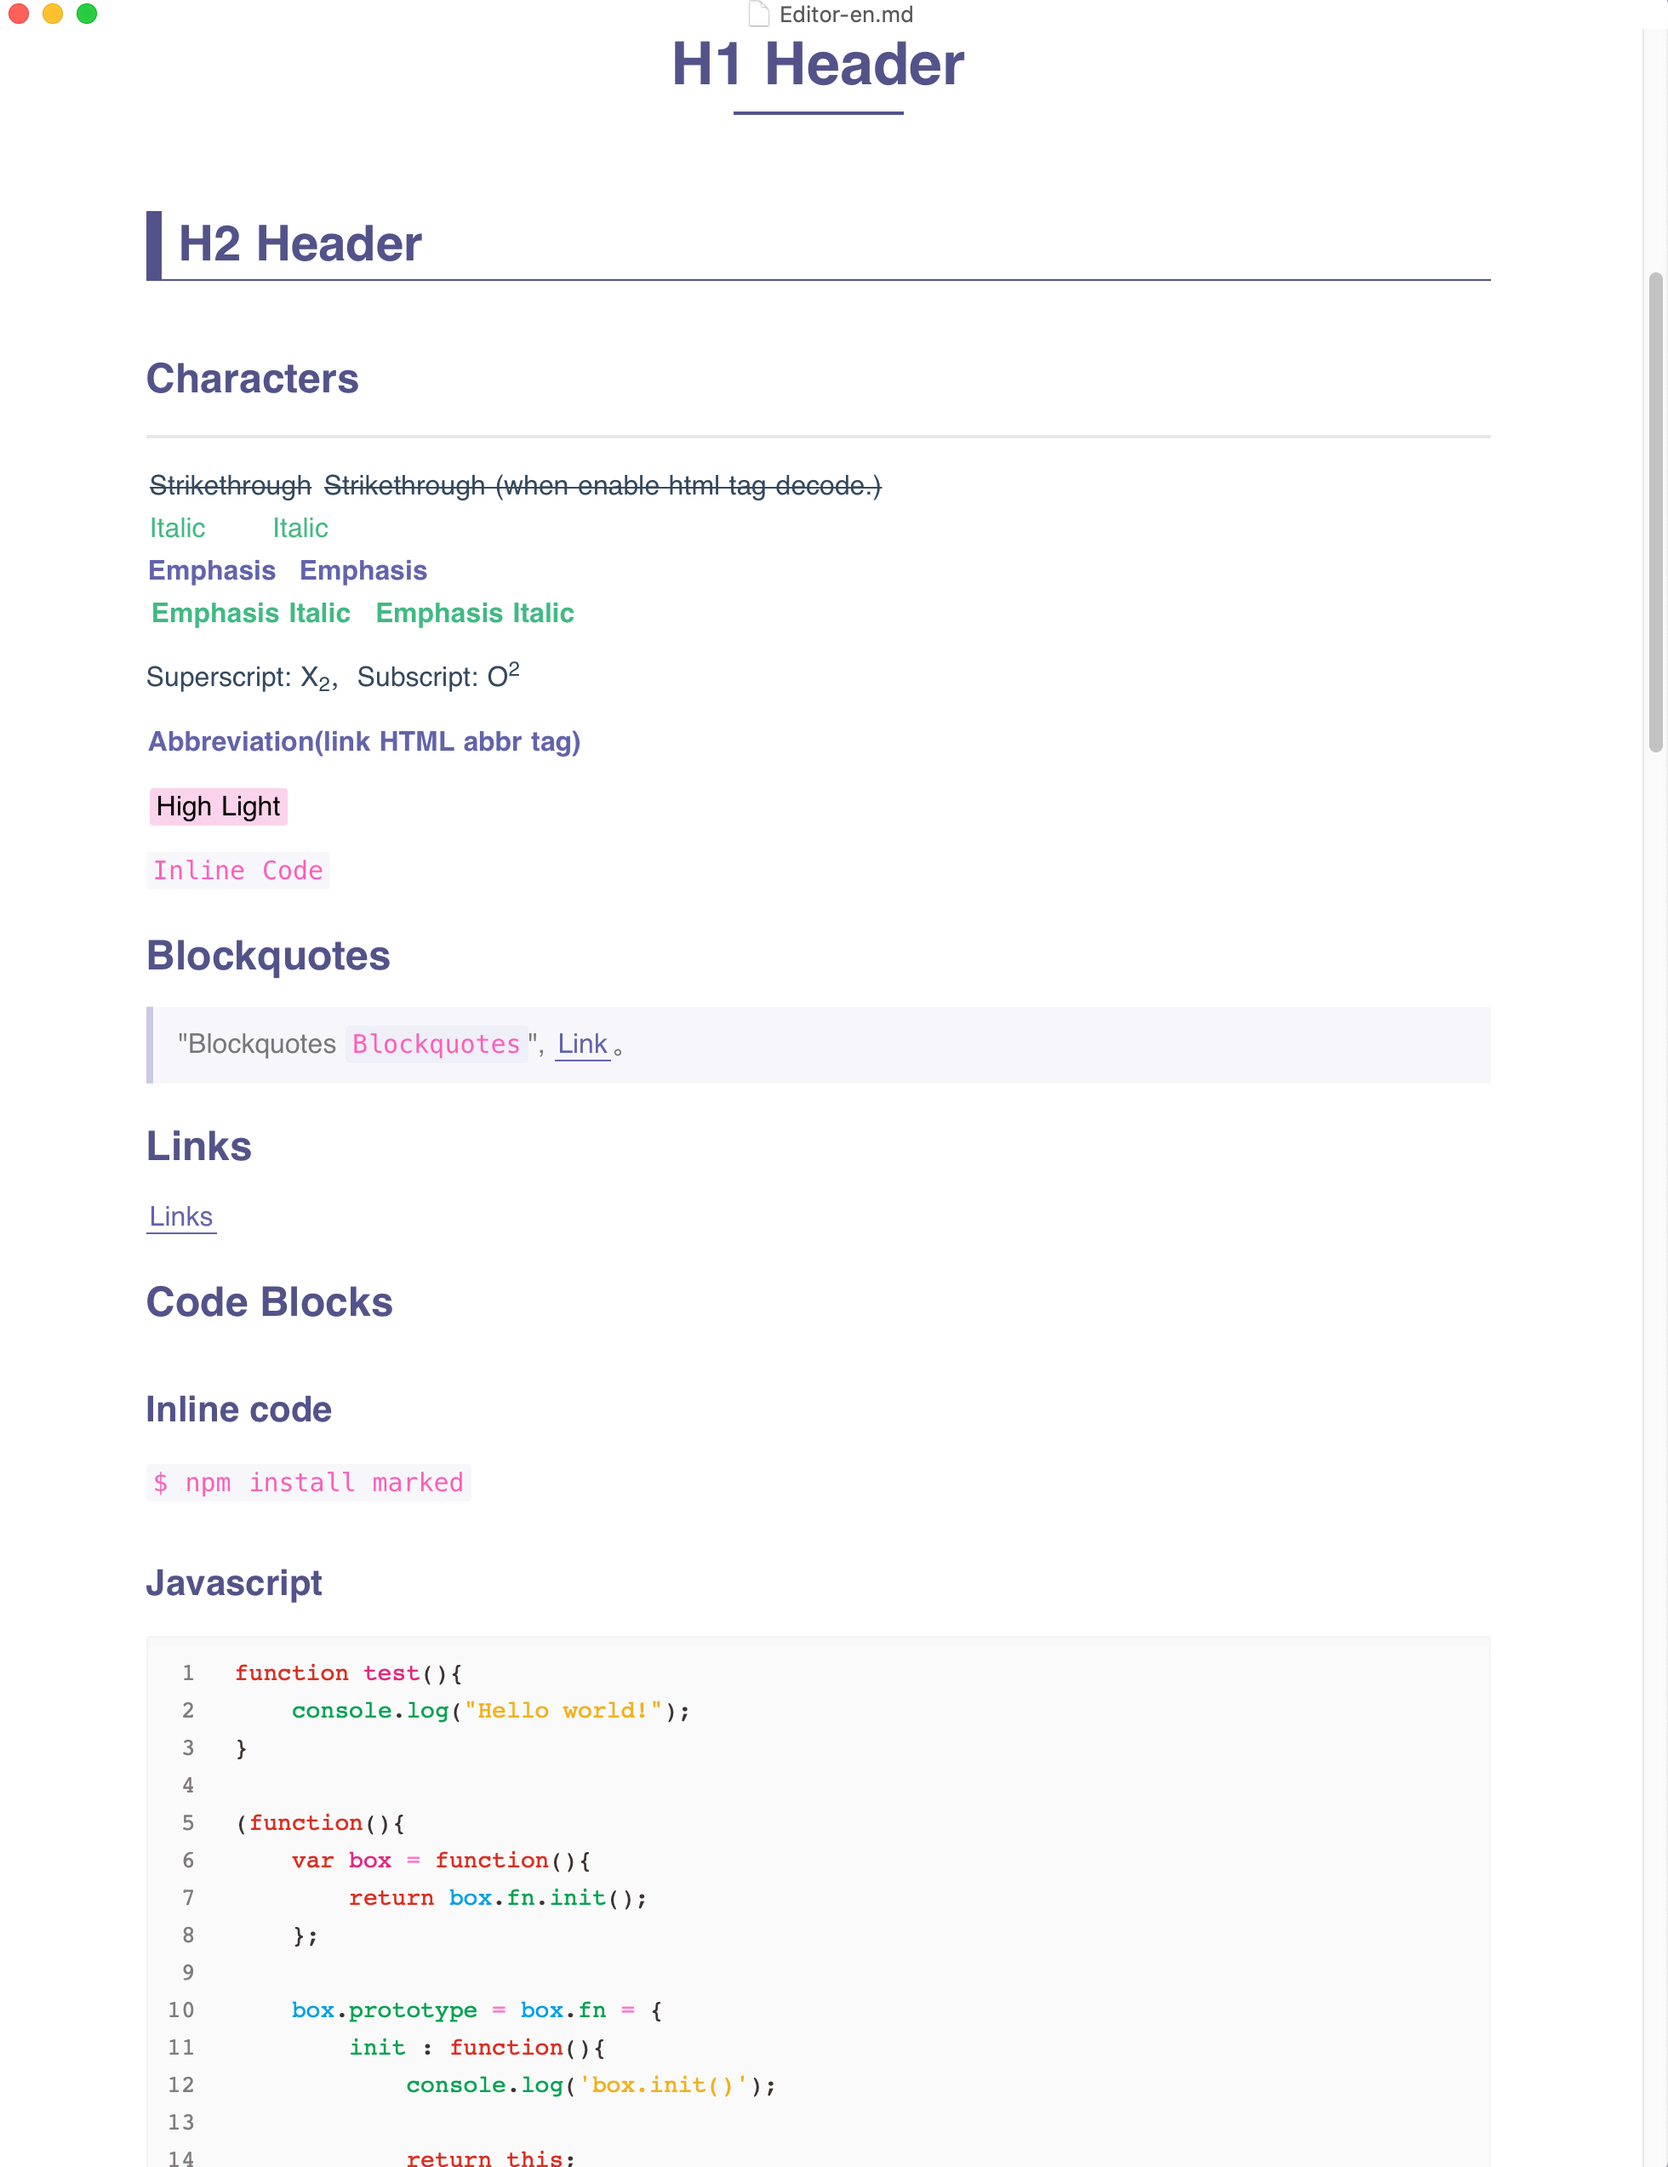
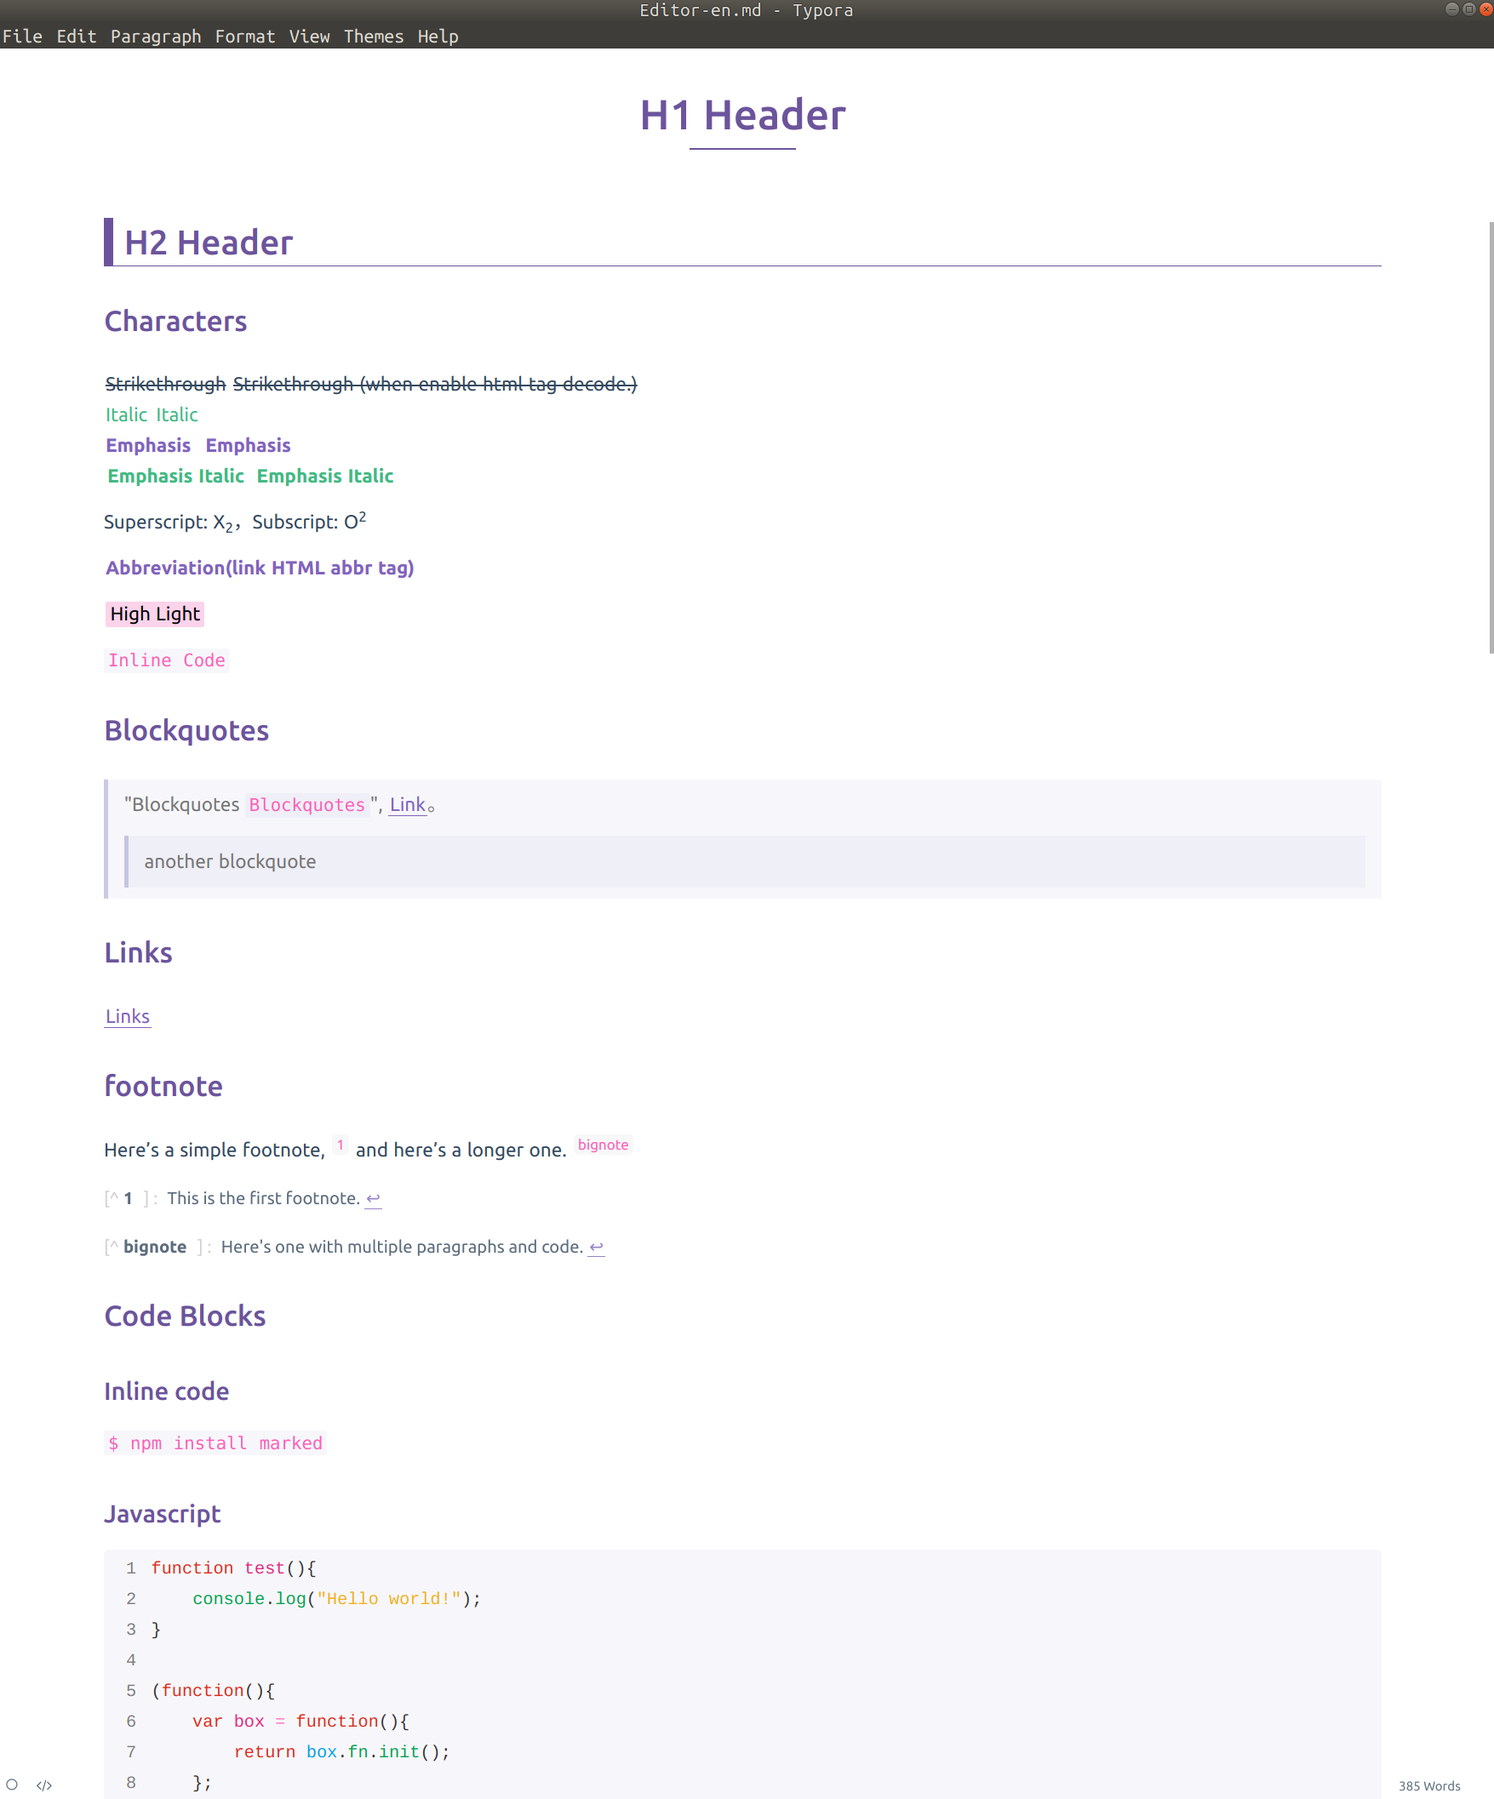
Update descriptions

diff --git a/Tests/Editor-en.md b/Tests/Editor-en.md
@@ -8,8 +8,6 @@ H2 Header
 
 ### Characters
 
-----
-
 ~~Strikethrough~~ <s>Strikethrough (when enable html tag decode.)</s>
 *Italic* _Italic_
 **Emphasis**  __Emphasis__
@@ -26,6 +24,8 @@ Superscript: X<sub>2</sub>，Subscript: O<sup>2</sup>
 ### Blockquotes
 
 > "Blockquotes `Blockquotes`", [Link](http://localhost/)。
+>
+> > another blockquote
 
 ### Links
 
@@ -86,7 +86,7 @@ var testBox = box();
 testBox.add("jQuery").remove("jQuery");
 ```
 
-####HTML code
+#### HTML code
 
 ```html
 <!DOCTYPE html>

diff --git a/Tests/Editor.md b/Tests/Editor.md
@@ -6,9 +6,7 @@ This is an H1
 This is an H2
 -------------
 
-### 字符效果和横线等
-
-----
+### 字符效果
 
 ~~删除线~~ <s>删除线（开启识别HTML标签时）</s>
 *斜体字*      _斜体字_
@@ -24,6 +22,8 @@ This is an H2
 引用的行内混合 Blockquotes
 
 > 引用：如果想要插入空白换行`即<br />标签`，在插入处先键入两个以上的空格然后回车即可，[普通链接](http://localhost/)。
+>
+> > 另一个引用
 
 ###  Links
 

diff --git a/README.md b/README.md
@@ -4,7 +4,7 @@
 
 [中文](README_CN.md)
 
-> `Simple, clean`, this is a **purple** theme for Typora
+> `Simple, clean`,  a **purple** theme for Typora
 
 ## Introduction
 
@@ -18,6 +18,8 @@
 4. Close and reopen Typora and select **Theme** → **Purple** from the menu bar.
 
 ## Screenshots
+
+![shadow](ScreenShots/en/0.png)
 
 ![shadow](ScreenShots/en/1.png)
 

diff --git a/README_CN.md b/README_CN.md
@@ -19,6 +19,8 @@
 
 ## 效果图
 
+![shadow](ScreenShots/cn/0.png)
+
 ![shadow](ScreenShots/cn/1.png)
 
 ![shadow](ScreenShots/cn/2.png)
